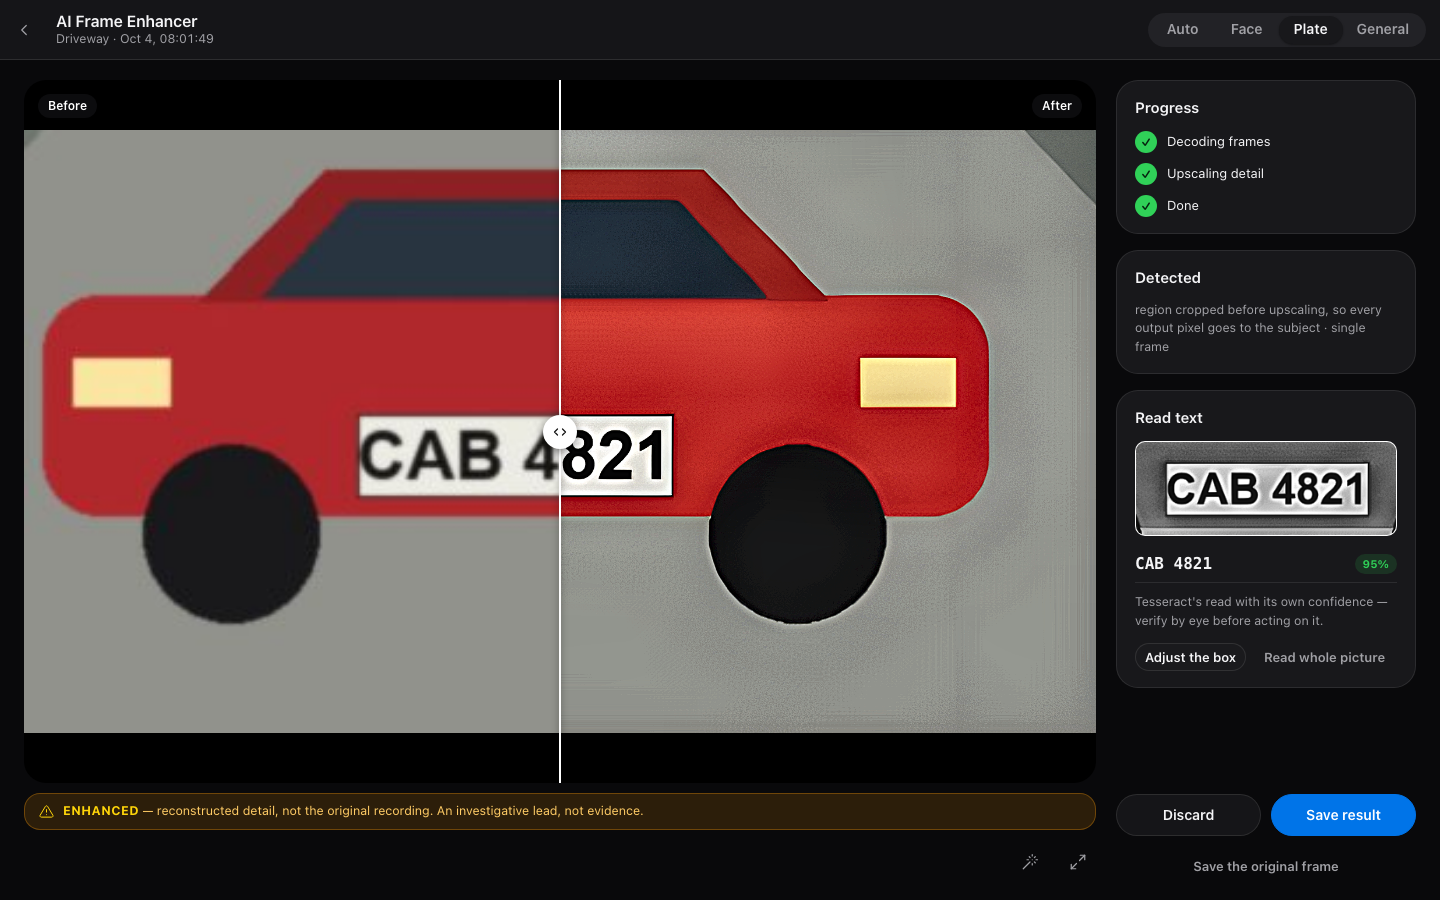
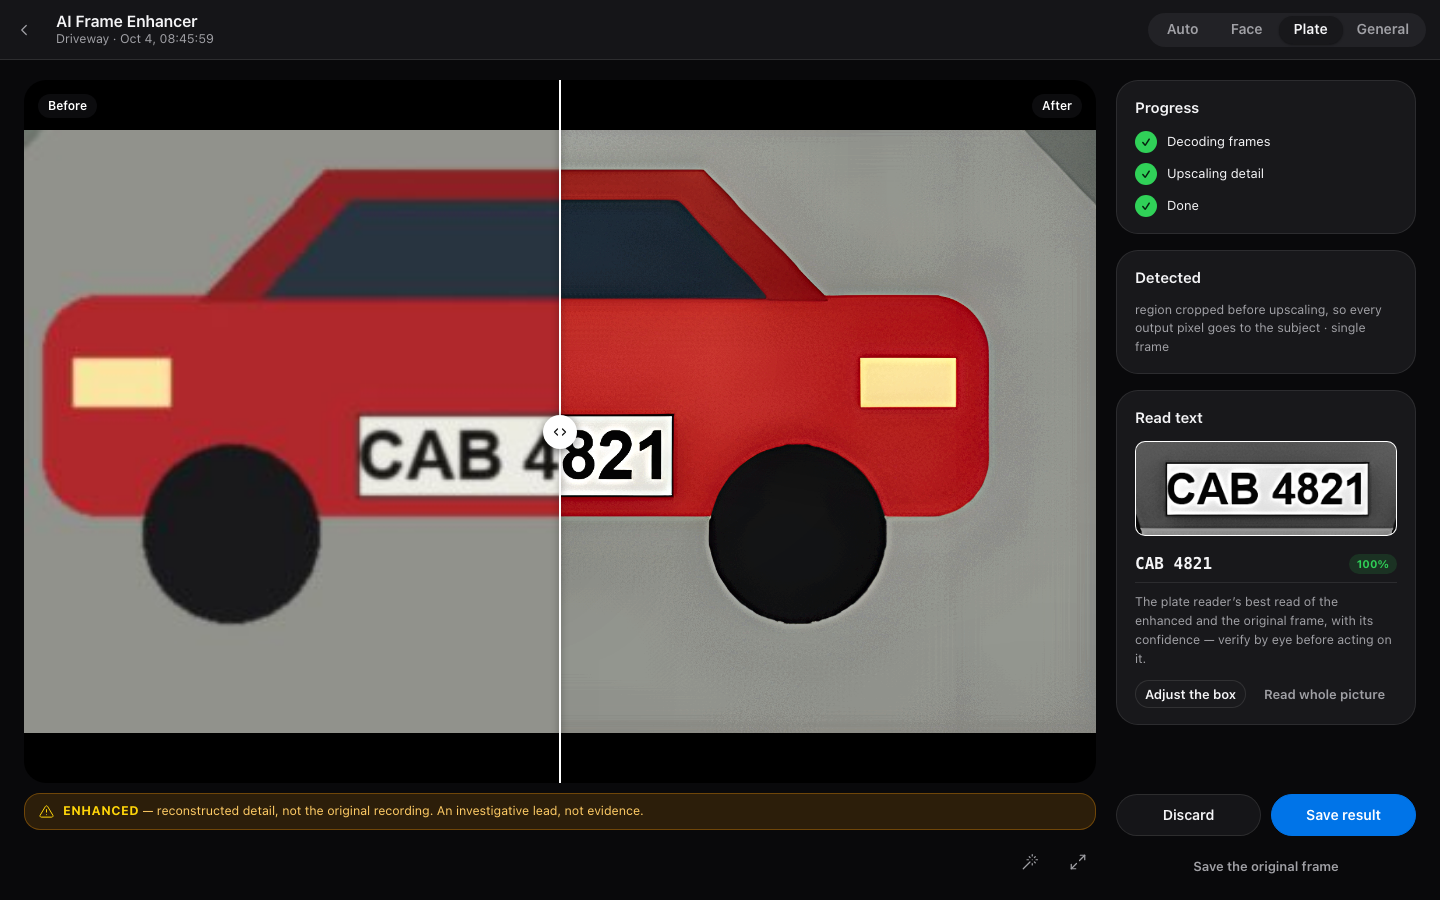
Docs: the plate reader in Read text, the plate bench, the OCR endpoint's engine

Changed region(s): [[0.7812, 0.6533, 0.9688, 0.7778], [0.7812, 0.4978, 0.9688, 0.6533]]

diff --git a/README.md b/README.md
@@ -97,12 +97,14 @@ From a paused frame in Playback — or up to 11 frames around it, aligned and fu
 local Real-ESRGAN + GFPGAN pipeline produces the clearest, highest-resolution version of that moment it can,
 for faces and license plates. Select a region first and every output pixel goes to it. **Read text** reads
 plates and signs: draw a box around the text and turn it to match a slant, and the box is levelled, enlarged
-and read, with the patch it read from shown beside the result. It runs entirely on this machine and never
+and read, with the patch it read from shown beside the result. Licence plates go to a dedicated plate reader
+(a small ONNX model) that reads both the enhanced and the original frame and keeps the more confident
+reading; other text is read with Tesseract. It runs entirely on this machine and never
 calls out to the cloud, and every enhanced picture carries an **ENHANCED** label, with the original frame
 always kept alongside it: the distinction between "what the sensor recorded" and "the AI's best
 reconstruction of it" is never blurred.
 
-![The AI frame enhancer: a before/after wipe of a car, the ENHANCED label under the picture, and the plate read as CAB 4821 at 95% confidence](docs/screenshots/enhancer.png)
+![The AI frame enhancer: a before/after wipe of a car, the ENHANCED label under the picture, and the plate read as CAB 4821 by the plate reader](docs/screenshots/enhancer.png)
 
 ### Settings
 Recorder address and login, the encryption toggle and verification code, per-channel names/order/frame-rate
@@ -244,7 +246,7 @@ channels, display options) is edited from the in-app **Settings** screen. `data/
 ### AI frame enhancer (optional, native only)
 
 Everything above is all you need for live view, playback, export, and the real-time "wand" filters. The
-[AI frame enhancer](#ai-frame-enhancer) (Real-ESRGAN + GFPGAN, plus optional OCR) is a separate, heavier
+[AI frame enhancer](#ai-frame-enhancer) (Real-ESRGAN + GFPGAN, plus Tesseract and a plate reader for Read text) is a separate, heavier
 opt-in — it pulls in PyTorch and ~1.5 GB of model weights, and one of its dependencies
 ([basicsr](https://github.com/XPixelGroup/BasicSR), effectively unmaintained since 2022) needs a couple of
 small local patches to install and run on current Python. It isn't in the Docker image. All of that is
@@ -462,9 +464,11 @@ anything on it. Sign-in has its own suites, no recorder needed:
 .venv/bin/python3 tools/test_auth_http.py    # every route and WebSocket per role, login flows
 ```
 
-With the AI enhancer installed, `tools/bench_ocr.py` measures Read text on 72 synthetic plates and signs
-(angle, size, blur, polarity, JPEG): about 94% read exactly from an operator's box, against 17% for the
-whole picture.
+With the AI enhancer installed, two benches measure Read text on synthetic text (no real footage):
+`tools/bench_ocr.py` on 72 printed plates and signs (angle, size, blur, polarity, JPEG) — about 94% read
+exactly from an operator's box, against 17% for the whole picture — and `tools/bench_plates.py` on licence
+plates seen side-on through the whole enhancer pipeline, where the plate reader reads most of them exactly
+and Tesseract almost none.
 
 ## Project status
 

diff --git a/docs/SPEC.md b/docs/SPEC.md
@@ -427,10 +427,12 @@ whatever's already on screen, paused, this instant.
 - `POST /api/enhance/{job_id}/ocr` — body `{which: "result"|"source", region: {cx, cy, w, h, angle}|null,
   plate: bool}`. `region` is the operator's box: centre and size as fractions of the picture, `angle` in
   degrees clockwise as drawn (the server levels the box, crops, scales and reads several cleaned variants,
-  keeping the reading most agree on); `plate` limits the read to plate characters with no dictionary.
-  Runs synchronously (about a second, no job/poll) and returns `{lines: [{text, confidence}], crop}` —
-  `crop` a PNG data URL of the levelled patch that was read (region reads only, else null).
-  `tools/bench_ocr.py` measures it on synthetic plates and signs.
+  keeping the reading most agree on); `plate` reads the box as a licence plate — with the optional plate
+  reader (fast-plate-ocr's global model) on both the enhanced and the original frame, most confident
+  reading kept; without it, Tesseract limited to plate characters with no dictionary. Runs synchronously
+  (about a second, no job/poll) and returns `{lines: [{text, confidence}], crop, engine}` — `crop` a PNG data
+  URL of the levelled patch that was read (region reads only, else null), `engine` "plate" or "tesseract".
+  `tools/bench_ocr.py` and `tools/bench_plates.py` measure it on synthetic text.
   Optional, on-demand — never run automatically as part of the main pipeline (see 7.8.4a).
 
 ##### 7.8.4a OCR (optional, on demand)
